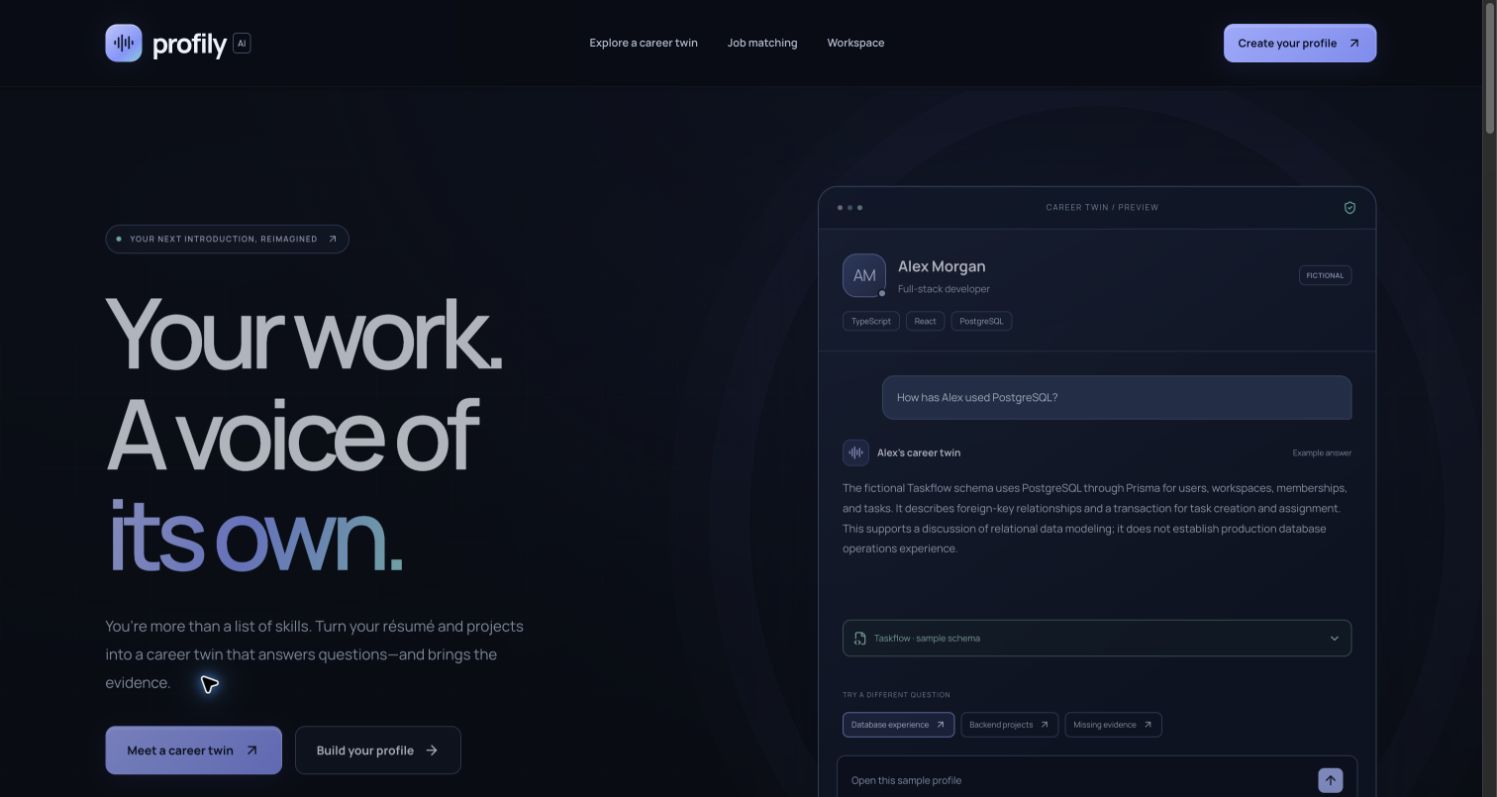
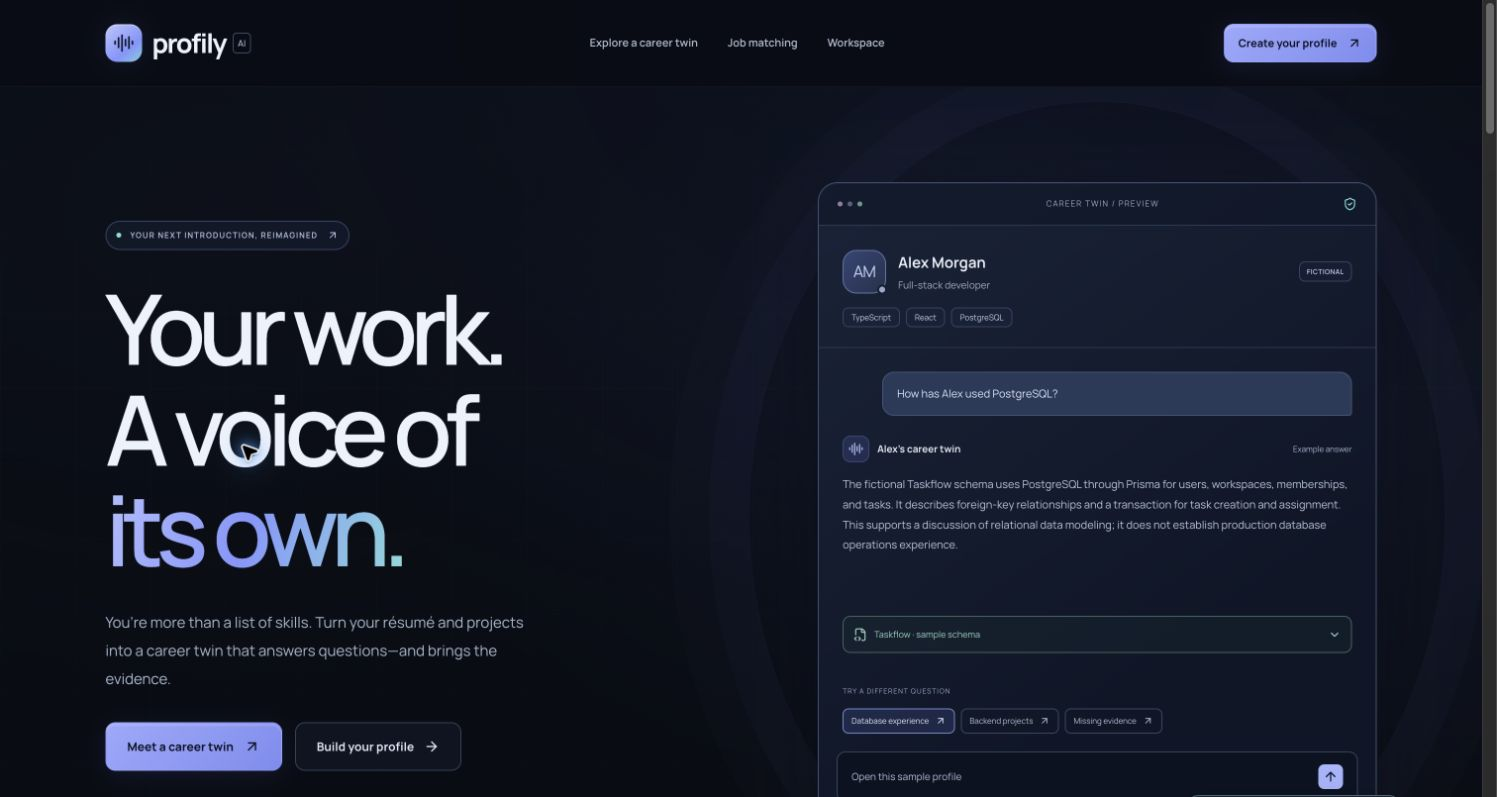
Document verified redesign deployment and production workflows

diff --git a/docs/UI_REDESIGN.md b/docs/UI_REDESIGN.md
@@ -34,11 +34,27 @@ The redesign changes presentation across the existing application. APIs, Gemini 
 - Fresh synthetic PDF extraction and Gemini structuring passed. The subsequent fresh Express import encountered **GitHub's anonymous public API rate limit (HTTP 429)** in the local environment; this is recorded in `ui-redesign/local-ingestion-check.txt`. No scripted success replaced it. The judge demo retains its real, pinned, bundled repository observations.
 - Configured credential values scanned against public source/artifacts: no matches. Backend, AI services, hooks and voice-controller source have no redesign diff.
 
-A live sharing regression test caught an initial global loading boundary returning a streamed HTTP 200 for a revoked page. Loading boundaries are now scoped to workspace routes; the revoked page and unknown route return HTTP 404 again. The complete local six-check sharing suite passes after this correction, including guest isolation and revocation. This changed no publication service code.
+A live sharing regression test caught an initial global loading boundary returning a streamed HTTP 200 for a revoked page. Loading boundaries are now scoped to workspace routes; the revoked page and unknown route return HTTP 404 again. The complete local four-check sharing suite passes after this correction, including guest isolation and revocation. This changed no publication service code.
 
 ## Deployment verification
 
-Production verification and screenshots are recorded here after the Vercel update is checked. No production environment variables are changed by this redesign.
+The corrected runtime source is commit `8e06bacc22003f60c7a5174a38706b9a23c54086`. Vercel deployment `dpl_3w9VszKSTpsgW7gVibyi67B1AycK` was verified READY and aliased to **https://profily-ai.vercel.app**. No production environment variables were changed.
+
+- Production synthetic PDF extraction, fresh real Express analysis, reviewed profile save, cited conversation/follow-up/unsupported question and job matching: **7 live workflow checks passed**. GitHub retrieval succeeded in production despite the earlier local anonymous-quota failure.
+- Production recruiter interviews: **12 live checks passed**, including ownership isolation, real Gemini history, replay safety, uncertainty, brief, valid PDF (26,930 bytes), saved job comparison and exact analytics (three text turns, zero voice turns, one interview, one report). Temporary records were removed by the test.
+- Corrected production public sharing: **6 live checks passed** with actual Gemini, independent guest access, isolated saved match, private-edit snapshot separation and owner revocation. The revoked page and API returned 404. Temporary records were removed.
+- Production HTTP smoke: **11 routes, 17 internal routes/assets**, no empty href or missing page anchors. The smoke script was invoked with bounded requests and `connection: close` after an earlier keep-alive invocation stalled.
+- Production source/HTML safety checks and 404 observations are in `ui-redesign/production-safety.json`.
+- Chrome verified the public landing CTA, scripted missing-evidence preview, judge access without sign-in, actual live Gemini answer with README/source-file citations, expandable exact excerpt and redesigned analytics. Additional production mobile DOM checks reported no overflow at 390 pixels. Responsive screenshots encountered a browser capture scaling issue later in the session; the local mobile comparison screenshot is retained instead of presenting those padded captures as polished output.
+- Node 24 GitHub Actions validation for the corrected source passed. Local TypeScript, ESLint, all 51 tests and production build were rerun successfully after the loading-boundary correction.
+
+![Deployed landing](ui-redesign/live-home-desktop.jpg)
+
+![Deployed judge hero](ui-redesign/live-judge-desktop.jpg)
+
+[Before judge layout](ui-redesign/before-judge-desktop.jpg) · [Live cited answer](ui-redesign/live-chat-desktop.jpg) · [Local mobile requirement comparison](ui-redesign/match-result-mobile.jpg) · [Actual production PDF for a synthetic candidate](ui-redesign/production-interview.pdf)
+
+The verification JSON and text files in `docs/ui-redesign` preserve actual outcomes; historical phase reports remain unchanged.
 
 ## Remaining manual checks and limits
 

diff --git a/README.md b/README.md
@@ -168,7 +168,7 @@ The project owner reports using **Wispr Flow to dictate development instructions
 
 ![Redesigned fictional judge profile](docs/ui-redesign/live-judge-desktop.jpg)
 
-[Before redesign](docs/ui-redesign/before-judge-desktop.jpg) · [Mobile judge profile](docs/ui-redesign/live-judge-mobile.jpg)
+[Before redesign](docs/ui-redesign/before-judge-desktop.jpg) · [Mobile comparison result](docs/ui-redesign/match-result-mobile.jpg)
 
 [Final mobile job comparison](docs/refinement/job-result-mobile.jpg) · [Final desktop comparison](docs/refinement/job-result-desktop.jpg)
 
